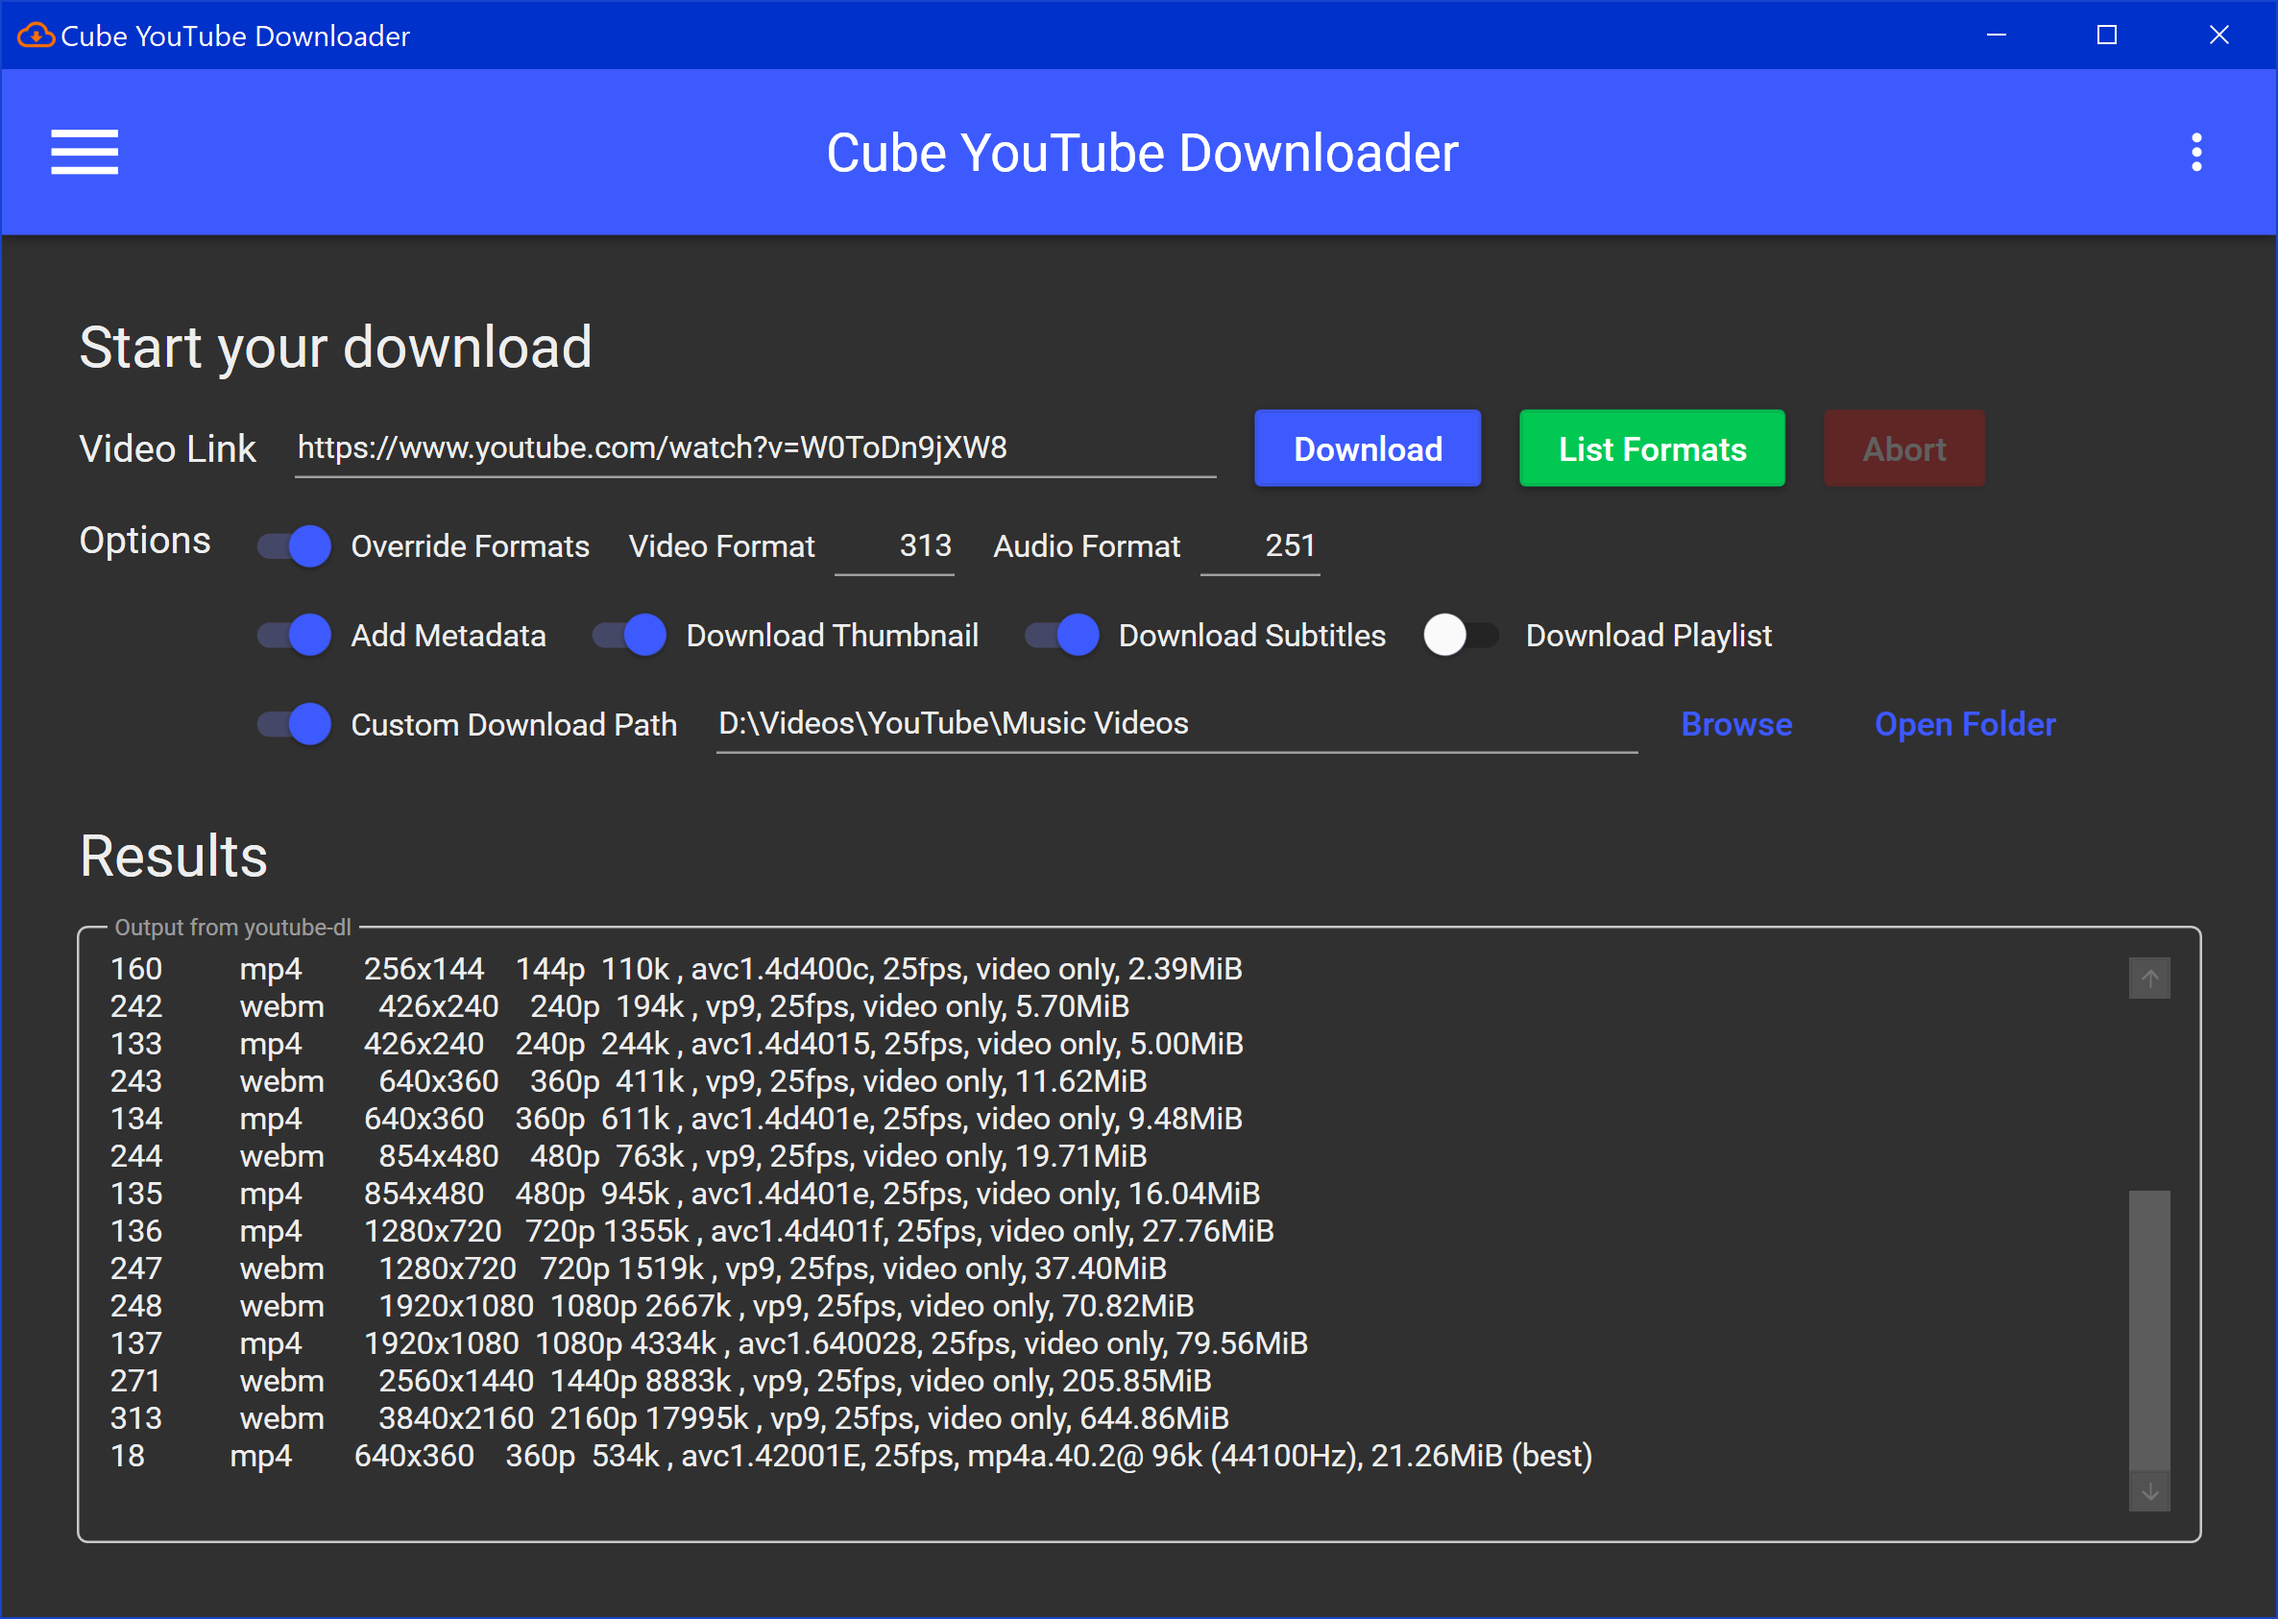
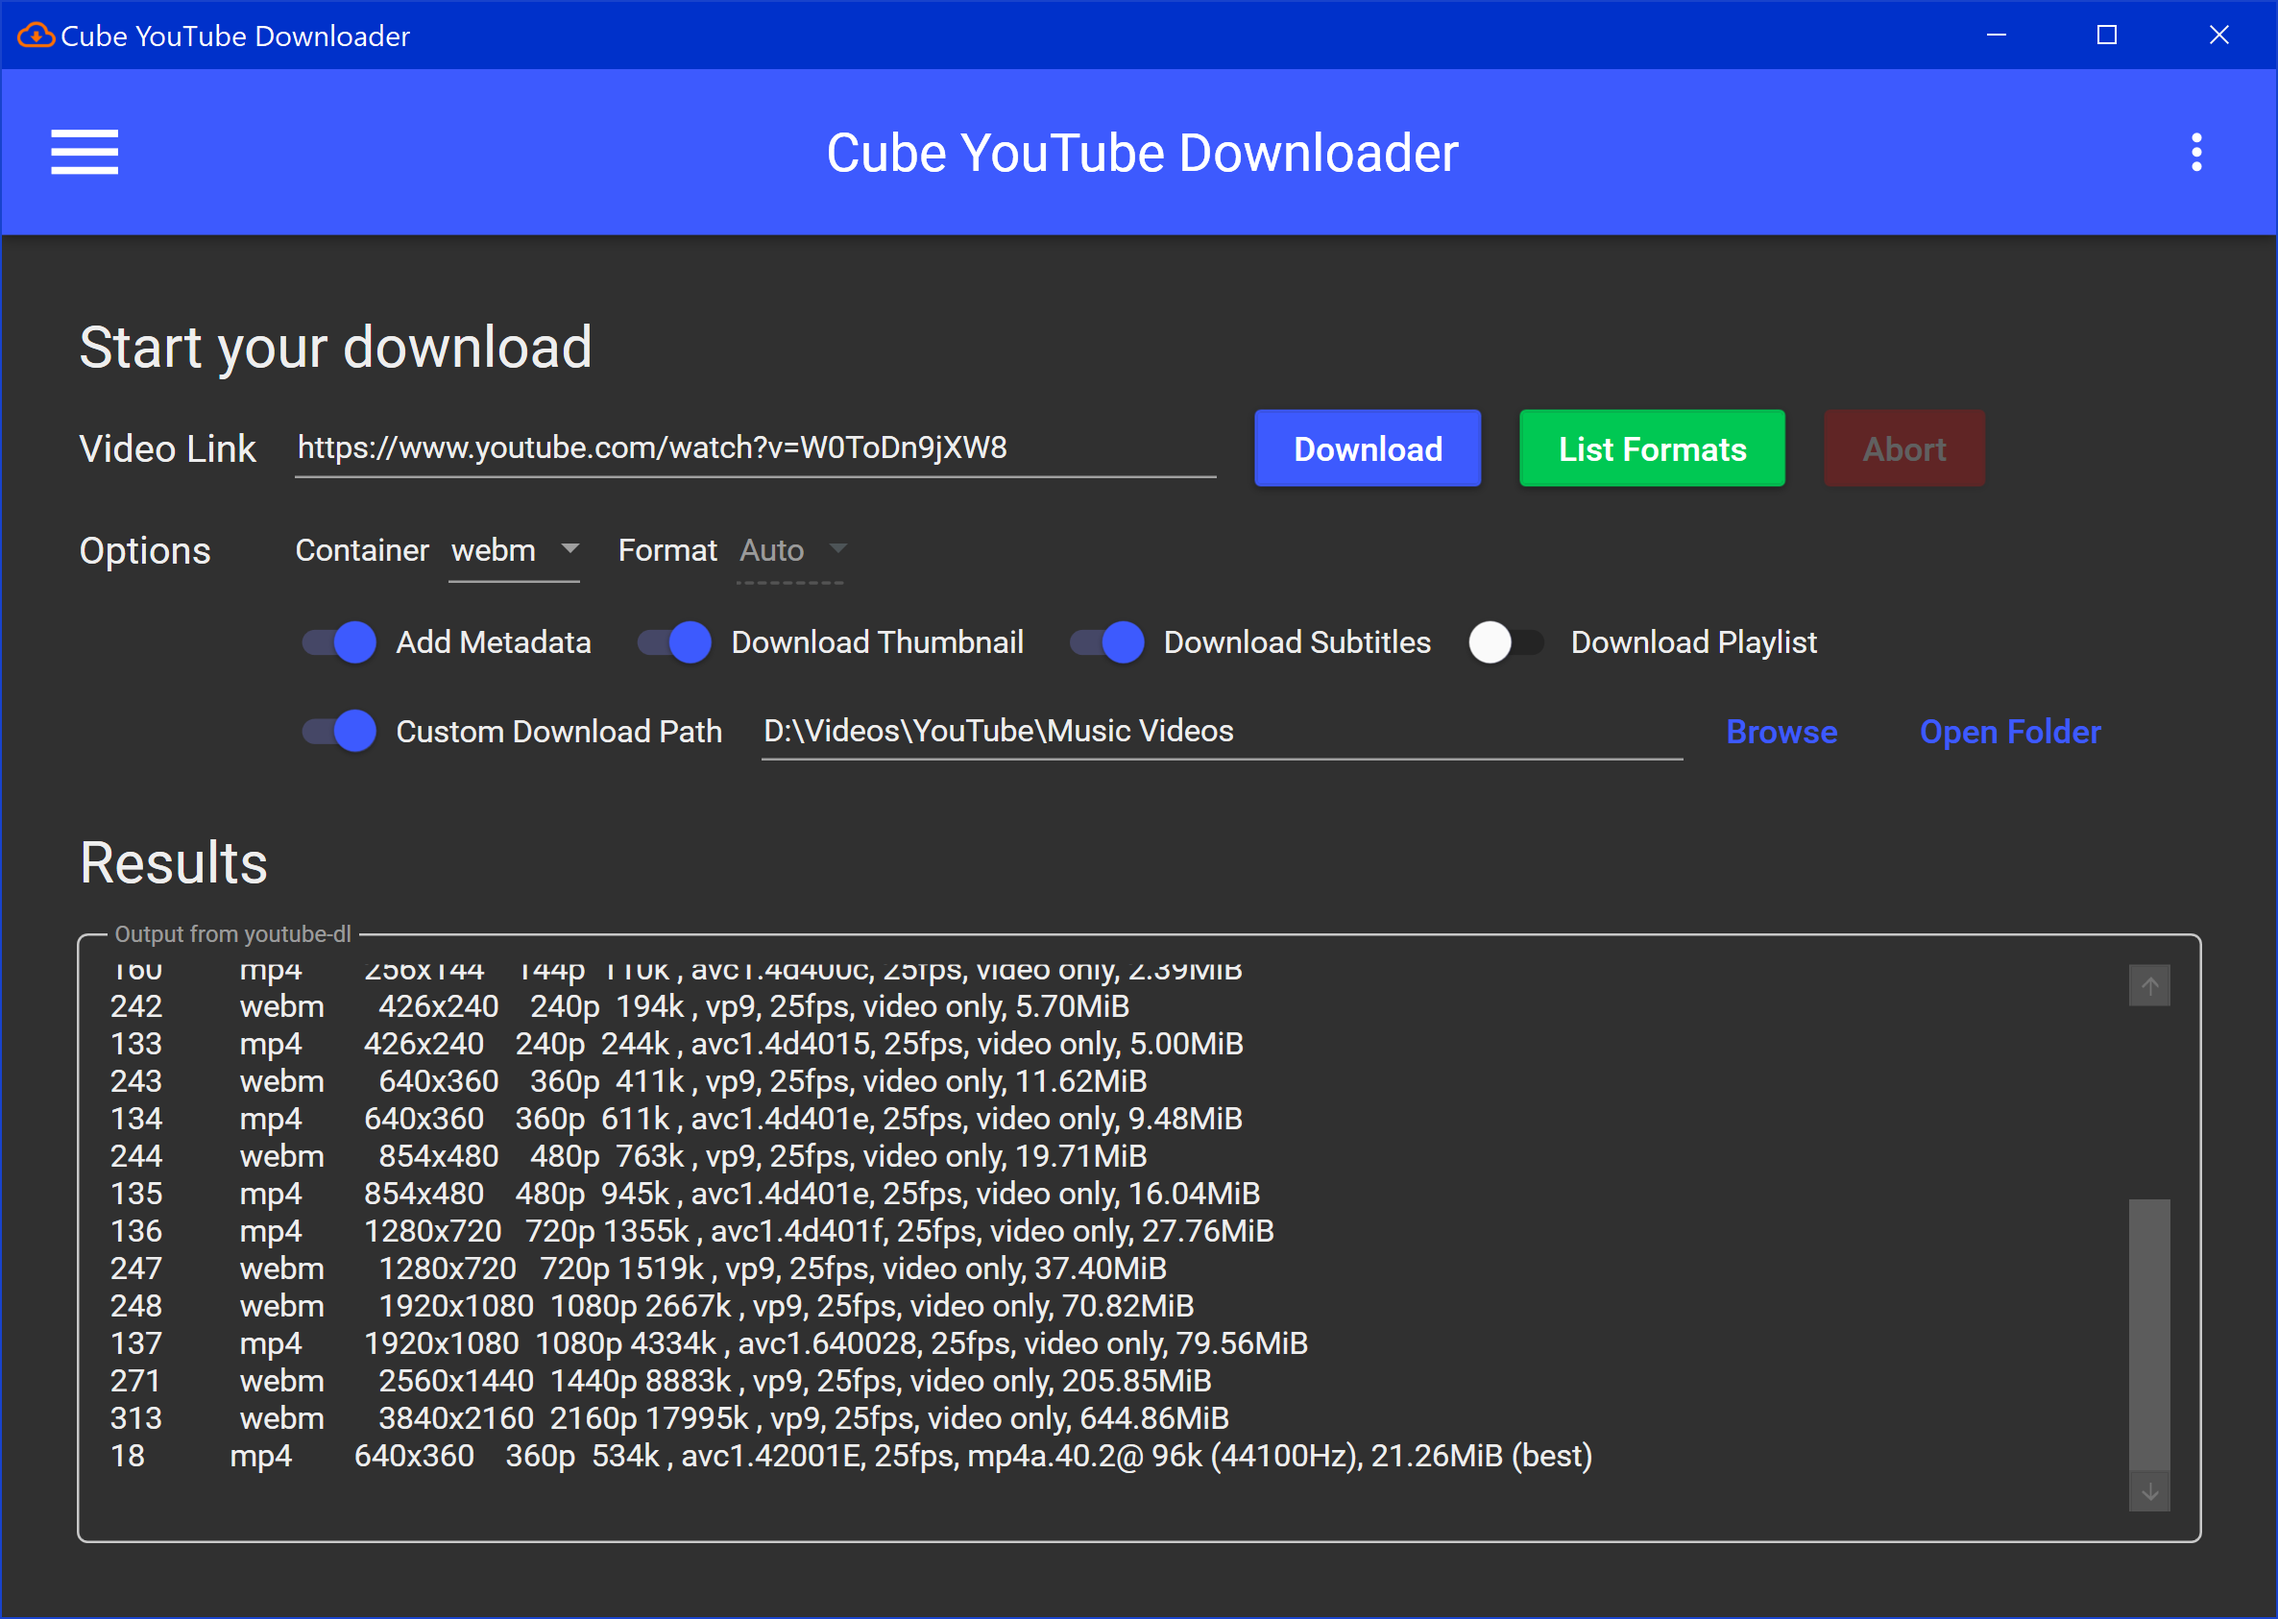
📚 Update documentation
- Update packages
- Update FAQ
- Update screenshots

diff --git a/AboutDialog.xaml b/AboutDialog.xaml
@@ -26,7 +26,7 @@
                    Style="{StaticResource MaterialDesignHeadline6TextBlock}"
                    TextWrapping="Wrap"
                    VerticalAlignment="Center">
-            About - v1.1 Build 20200715
+            About - v1.2 Build 20200722
         </TextBlock>
         <TextBlock Grid.Row="1"
                    Grid.Column="1"

diff --git a/README.md b/README.md
@@ -31,8 +31,8 @@ A simple GUI wrapper for [`youtube-dl`](https://github.com/ytdl-org/youtube-dl).
 - _Q:_ The __Download__ button is grayed out and I can't click it!
 - _A:_ `youtube-dl-wpf` is a simple GUI wrapper. It doesn't embed any downloader in it. You have to download `youtube-dl` from the upstream. The `ffmpeg` binary is required by `youtube-dl` when downloading and merging separate video and audio tracks, which is the case for any video resolution higher than 360p.
 
-- _Q:_ How can I specify video and audio tracks to download?
-- _A:_ First use the "List Formats" button to ask youtube-dl to list all available formats. To specify the video and audio format, toggle "Override Formats" and fill in the format numbers, as shown in the screenshots above.
+- _Q:_ Why can't I specify custom container and custom format at the same time?
+- _A:_ Currently `youtube-dl`'s format matching algorithm doesn't handle this very well. And I don't want to see workarounds for it in my code. So it is blocked intentionally to prevent issues.
 
 - _Q:_ How can I use a proxy to download?
 - _A:_ Leave the proxy field empty to use system proxy settings. Otherwise the format is similar to how `curl` accepts proxy strings. Examples are, `socks5://localhost:1080/`, `http://localhost:8080/`. Currently the upstream doesn't accept `socks5h` protocol and treat `socks5` as `socks5h` by always resolving the hostname using the proxy. This is tracked in [this issue](https://github.com/ytdl-org/youtube-dl/issues/22618).
@@ -70,4 +70,4 @@ $ git clone --recursive https://github.com/database64128/youtube-dl-wpf.git
 
 [Material Design Themes](https://github.com/MaterialDesignInXAML/MaterialDesignInXamlToolkit) is licensed under [MIT](https://github.com/MaterialDesignInXAML/MaterialDesignInXamlToolkit/blob/master/LICENSE).
 
-[PeanutButter.TinyEventAggregator](https://github.com/fluffynuts/PeanutButter) is licensed under [BSD-3-Clause License](https://github.com/fluffynuts/PeanutButter/blob/master/LICENSE).
+[`PeanutButter.TinyEventAggregator`](https://github.com/fluffynuts/PeanutButter) is licensed under [BSD-3-Clause License](https://github.com/fluffynuts/PeanutButter/blob/master/LICENSE).

diff --git a/Formats.md b/Formats.md
@@ -1,20 +1,20 @@
 # Format Selection Design Goals
 
-## Container Selections (editable):
+## Container Selection (editable):
 
 ```
 - Auto
-- .webm
-- .mp4
-- .mkv
-- .opus
-- .flac
-- .ogg
-- .m4a
-- .mp3
+- webm
+- mp4
+- mkv
+- opus
+- flac
+- ogg
+- m4a
+- mp3
 ```
 
-## Quality Selections (non-editable):
+## Format Selection (editable):
 
 ```
 - Auto
@@ -31,18 +31,25 @@
 - worstvideo
 - bestaudio
 - worstaudio
+- YouTube 4K 60fps HDR webm (337+251)
+- YouTube 4K 60fps webm (315+251)
+- YouTube 4K 60fps AV1 (401+140)
+- YouTube 4K webm (313+251)
+- YouTube 1080p60 webm (303+251)
+- YouTube 1080p webm (248+251)
+- 1080p
+- 720p
 ```
 
 ## Generated Format Selection Strings:
 
 - `Auto + bestvideo+bestaudio/best == bestvideo+bestaudio/best`
-- `Auto + Custom + 248 + 251 == 248 + 251`
-- `.webm + Auto == webm`
-- `.webm + bestvideo+bestaudio/best == (bestvideo+bestaudio/best)[ext=webm]`
-- `.webm + Custom + 248 + 251 == (248+251)[ext=webm]`
-- `.mp4 + Custom + 137 + 140 == 137[ext=mp4]+140[ext=m4a]`
+- `Auto + "248+251" == 248+251`
+- `webm + Auto == webm`
+- `webm + bestvideo+bestaudio/best == (bestvideo+bestaudio/best)[ext=webm]`
+- `webm + "248+251" == (248+251)[ext=webm]`
+- `mp4 + Custom + "137+140" == 137[ext=mp4]+140[ext=m4a]`
 
 ## Rules
 
-- Can select quality and custom formats ONLY WHEN container is `Auto`.
-- Can specify custom formats ONLY WHEN quality is `Custom`.
+- Can select format ONLY WHEN container is `Auto`.
